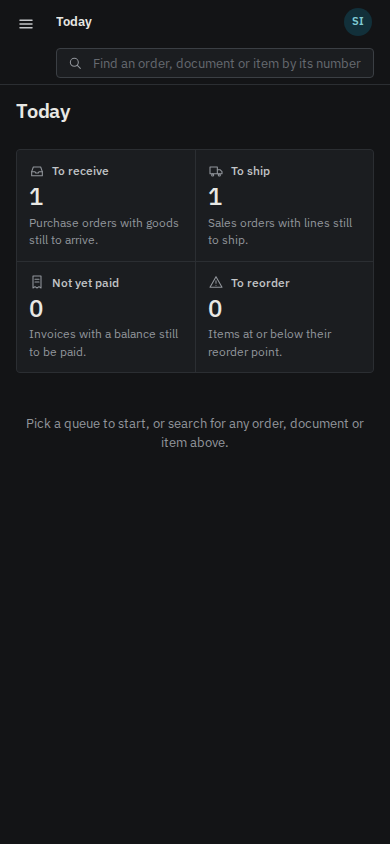
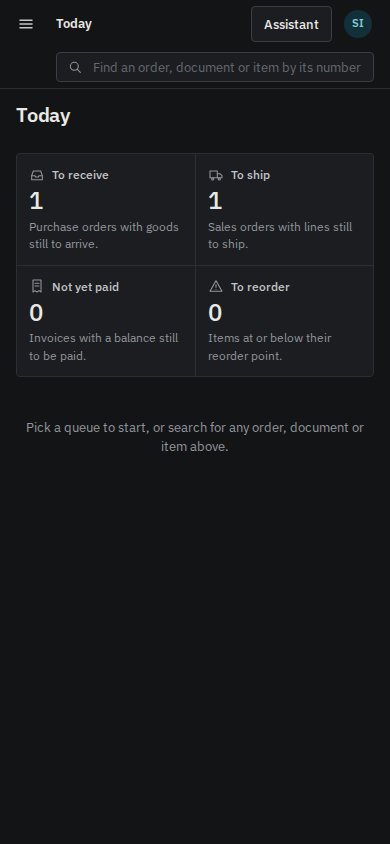
docs(execution): LOOK-1 assistant panel restyle integrated — rows and evidence
34 app screenshots from run 44352981045: the seven screens at 1440 and
390, light and dark, the phone Receive dialog's end, and
app-assistant-{1440,390}-{light,dark}.png (scripted model only).

Packet: LOOK-1

diff --git a/docs/execution/ledger.md b/docs/execution/ledger.md
@@ -218,5 +218,5 @@ before any become `admitted`.
 | SPEED-1 (security fix round) | The adjudicated findings of two reviews of slices 2-4: invocations outside any page snapshot so every write-path decision is live (S1); a task step under a policy change is re-sent by GET with its commit intact (S2); moving a policy row bumps both scopes' epochs (migration 0030, S3); one tenant and environment per page (S4); an aggregate anchor written only under its live epoch (S5); denials recorded after the reads (S6); the editor finishes its reads outside its catch (S7); a transaction of its own takes the page's turn, one connection per request (S8); a loading release awaited outside the snapshot (S9); plus the reviews' test gaps. Confirm 16 -> 21 transactions (live decisions) | the speed packet | Critical (migration 0030, epoch trigger) | **integrated 2026-11-18 at `ab5ab5e2fa4d31ccd5a312112c2fd5de7850e518`; review-log `merged — unread`** | packet tip `5839d9c4`; CI run 44253708314 green | [packet](packets/SPEED-1.md). |
 | SPEED-1 (fix read and queue counts) | The fix read of `071c7796..ab5ab5e2`: denials committed on their own evidence pool before the answer, an unrecorded one failing the page (S6, read 1); the aggregate anchor holds `lock_current_policy_epoch` FOR SHARE to commit (S5, read 2, migration 0031); a Confirm under a policy change answers 409 with the session's own retry (S2, read 3); invocations and cold release routes resolved outside the page's turn (S8/S9, read 4); moved policy rows bump both epochs in canonical order (S3, read 5, 0031); each test red on the reverted code. Queue counts: Today's first three tiles counted in every page's snapshot, shown by LOOK-1's work queues; a snapshot sends an identical statement once (PO list 2 and SO detail 5 repeats to 0); +5 statements a page, no transaction | the speed packet | Critical (migration 0031: ordered epoch bumps, `lock_current_policy_epoch`) | **integrated 2026-11-18 at `e37c126e9e83b125397e5a51108b057fd9215293`; review-log `merged — unread`** | packet tip `86763ae3`; CI run 44305308130 green | [packet](packets/SPEED-1.md). |
 | SPEED-1 (final slice) | The orchestrator's rulings on the open items: queue counts on task-step pages too, read in the step's snapshot after the step (task open/review 2 / 41, Confirm 21 / 292); a queue the person may not open is left out after the gateway's non-recording eligibility check on every query its count reads, so no denial row per page view and no page fails over its queues (Today and the sidebar; the Warehouse keeps the tile, uncounted); ADR-0071 amended: the read snapshot covers one read-only request, a GET or a task step, on three conditions (READ ONLY, writes only through live invocations, the end-of-request epoch check on every step); the record header names 0030/0031 as Critical | the speed packet | Request security path (ADR-0071 amendment); no Critical path | **integrated 2026-11-18 at `e4d3c3aa9abf61891de08628ce2ac499b452a97d`; review-log `merged — no Critical path`** | packet tip `cc22cb3b`; CI run 44329884456 green | [packet](packets/SPEED-1.md). |
-| LOOK-1 | Every generated screen in the Ledger look the owner chose (ledger-spec.md): spec tokens light/dark and compact/comfortable, Plex type; the shell with work queues above the area groups, declared icons (a closed set of twenty on module, destination and tile) and a phone menu drawer; record pages with the serif number, stepper, next-step card (one primary, a sentence from the record's figures), facts grid, per-line progress from a declared `presentation.progress`, totals; lists with numbers right; the create form; plain names for the setup lists. Proof: seven mockup screens at 1440/390, light/dark, from the seed with Equipment added through Customize Round 2 (polish to mockup parity): one PO lines table, Record actions, figure buttons, one current step, coloured badges, a declared right rail; More details and date-only order dates on forms; finished tenant record pages; the Custom group declared by customization; sidebar without a repeated Today, an "Other" for occasional destinations; Foothills Industrial Supply in the seed. | phase 2 of the loop plan | Mechanical (renderer, definition, two optional language keys; no Critical path) | **round 4 integrated 2026-11-18 at `b83f1773eaab04aed8c14a25b246d9c7581c26d1`** (round 3 `e7a284f4`, round 2 `d0d3baf7`, round 1 `5d07856a`); review-log `merged — no Critical path` | round 4 packet tip `bfd95051`; CI run 44342652700 green | [packet](packets/LOOK-1.md); screenshots `evidence/look-1/`. |
+| LOOK-1 | Every generated screen in the Ledger look the owner chose (ledger-spec.md): spec tokens light/dark and compact/comfortable, Plex type; the shell with work queues above the area groups, declared icons (a closed set of twenty on module, destination and tile) and a phone menu drawer; record pages with the serif number, stepper, next-step card (one primary, a sentence from the record's figures), facts grid, per-line progress from a declared `presentation.progress`, totals; lists with numbers right; the create form; plain names for the setup lists. Proof: seven mockup screens at 1440/390, light/dark, from the seed with Equipment added through Customize Round 2 (polish to mockup parity): one PO lines table, Record actions, figure buttons, one current step, coloured badges, a declared right rail; More details and date-only order dates on forms; finished tenant record pages; the Custom group declared by customization; sidebar without a repeated Today, an "Other" for occasional destinations; Foothills Industrial Supply in the seed. | phase 2 of the loop plan | Mechanical (renderer, definition, two optional language keys; no Critical path) | **round 4 integrated 2026-11-18 (`b83f1773`), its follow-up (`6fe3053b`) and the assistant panel restyle at `d83c34d8366fa221cf624a10dbd7f741b0330dfe`** (round 3 `e7a284f4`, round 2 `d0d3baf7`, round 1 `5d07856a`); review-log `merged — no Critical path` | assistant restyle packet tip `6e314045`; CI run 44352981045 green | [packet](packets/LOOK-1.md); screenshots `evidence/look-1/`. |
 | AGENT-3 (slices 2-6) | One assistant panel on every app page (local demo; streamed reply, step label and timer, Stop, record links, tables; the page's record read fresh as the person; USD 1.50 per conversation); act-then-undo from contract facts with a verified Undo; erp_plan refuses unlooked-up record ids and unnamed currencies; a change to the application handed to the CUSTOMIZE AI draft as a plain diff; a 34-task development set with a CI-gated scripted half; a replayed execute re-reads under current authorization | — (weeks 1-2 of the six-week test) | Mechanical (no Critical path) | **integrated 2026-11-18 at `c6a156b496e9fd956ef2d7c1851184e6ee860699` (PR #58); dev set 61/66 runs (31/34 every time); 10 tasks 10/10 after LOOP-1 and after SPEED-1 (USD 0.0684 per completed task)** | base `5c25acdb`; packet tip `3ef32781` | [packet](packets/AGENT-3.md). Held-out run owed (orchestrator). |

diff --git a/docs/execution/review-log.md b/docs/execution/review-log.md
@@ -219,4 +219,5 @@ one line per round; the gate only requires that the SHA on `main` appears.
 | `e7a284f4cc1ea843e6fd365b9a532d42a7272336` | LOOK-1 | integration | MERGED — no Critical path | 2026-11-18 | Round 3 groups (c), (d), (e) together (ruled), record bodies, Receive and new PO, Home (Fable review 1 items 2, 4, 6-11, 13-15), PR #76, `--no-ff`, packet tip `bfae71f0` second parent; CI green at the tip (run 44325476363). Renderer, styles, first-party declarations (PO lines, SO step, line disclosure, Today slots), optional `print.currency` key with compiler accept/refuse test, coverage re-derived, release re-baselined; 28 app screenshots re-shot. |
 | `b83f1773eaab04aed8c14a25b246d9c7581c26d1` | LOOK-1 | integration | MERGED — no Critical path | 2026-11-18 | Round 4 (Fable review 2: N1 Receive grid, N2 record header at 390, N3 company on unscoped pages, N4 new-PO header, leftovers), PR #78, `--no-ff`, packet tip `bfd95051` second parent; CI green at the tip (run 44342652700). Renderer and styles only (`surface-composition.ts`, `component-registry.ts`, `document-editor.ts`, `surface-runtime.ts`, `ledger-styles.ts`) and spec pins; 28 app screenshots re-shot. |
 | `6fe3053beb417637f51455118619c66eec25fcbe` | LOOK-1 | integration | MERGED — no Critical path | 2026-11-18 | Round 4 follow-up, the phone Receive card (one CSS rule out-ranked) and the phone dialog's end shot, PR #79, `--no-ff`, packet tip `8925dcd6` second parent; CI green at the tip (run 44347264709, attempt 2 after a COMPILE_BUDGET_INDETERMINATE rerun). |
+| `d83c34d8366fa221cf624a10dbd7f741b0330dfe` | LOOK-1 | integration | MERGED — no Critical path | 2026-11-18 | The assistant panel in the Ledger look (after AGENT-3), PR #80, `--no-ff`, packet tip `6e314045` second parent; CI green at the tip (run 44352981045). `assistant-panel.ts` styles only (markup classes and behaviour unchanged; endpoint untouched) and its spec's evidence shots (scripted model only). |
 | `c6a156b496e9fd956ef2d7c1851184e6ee860699` | AGENT-3 | integration | MERGED — no Critical path | 2026-11-18 | Slices 2-6, PR #58, `--no-ff`, packet tip `3ef32781` second parent; CI green at the tip (run 44341693080 attempt 2; attempt 1 red only on the perf-budget INDETERMINATE and a 20 s surface-data-binding hang that passes locally); main moved since only by LOOK-1 round 4 (no shared file). Includes the security-review replay fix. |
